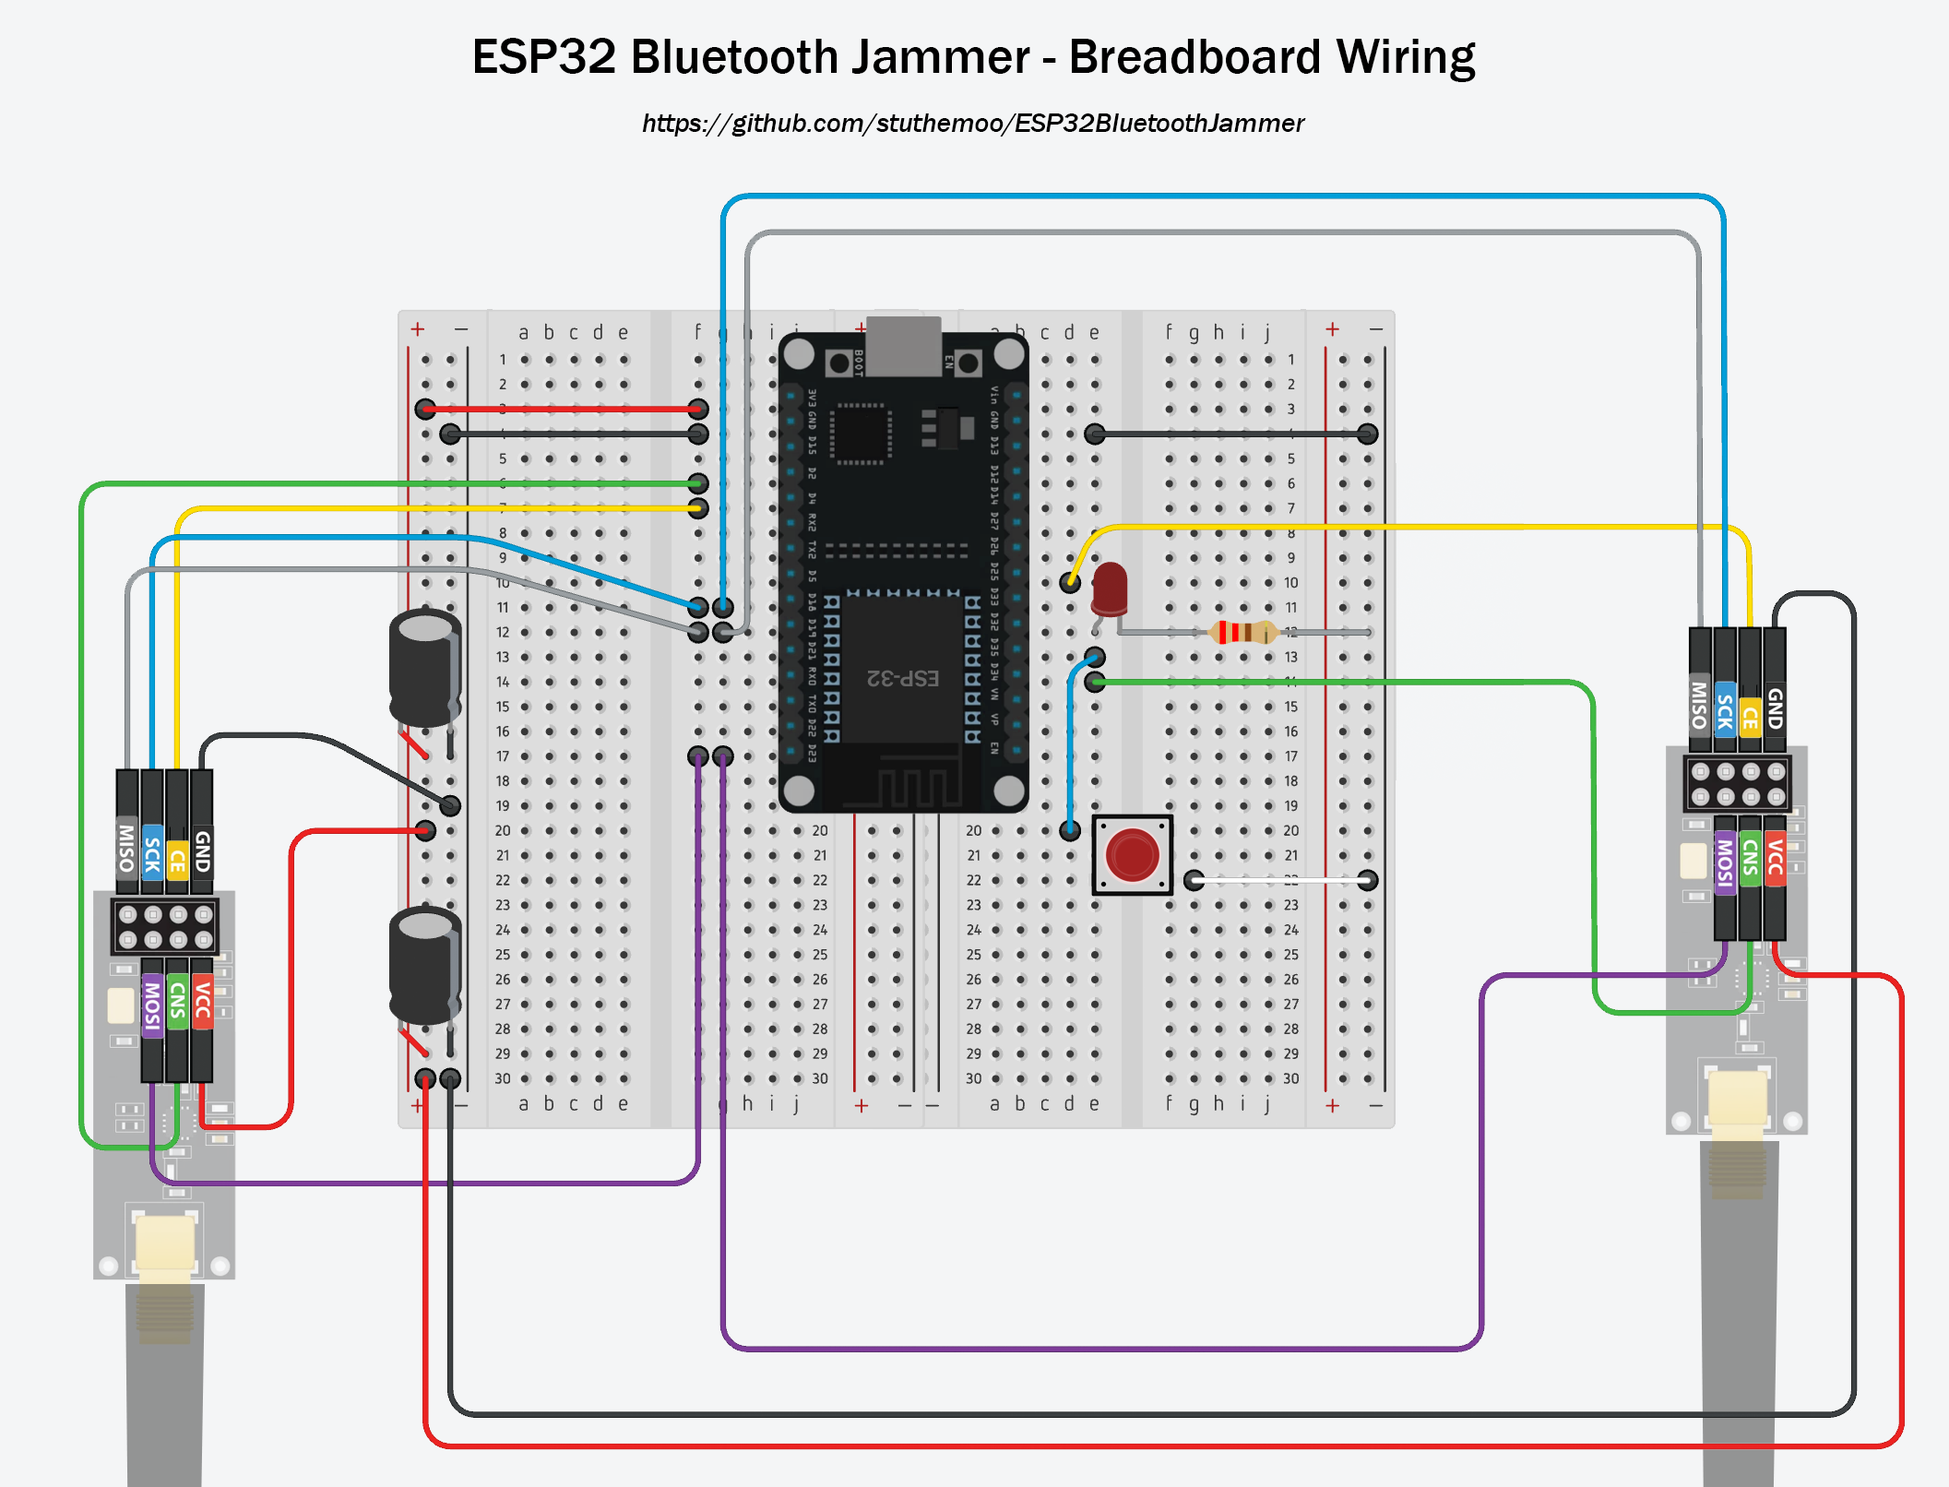
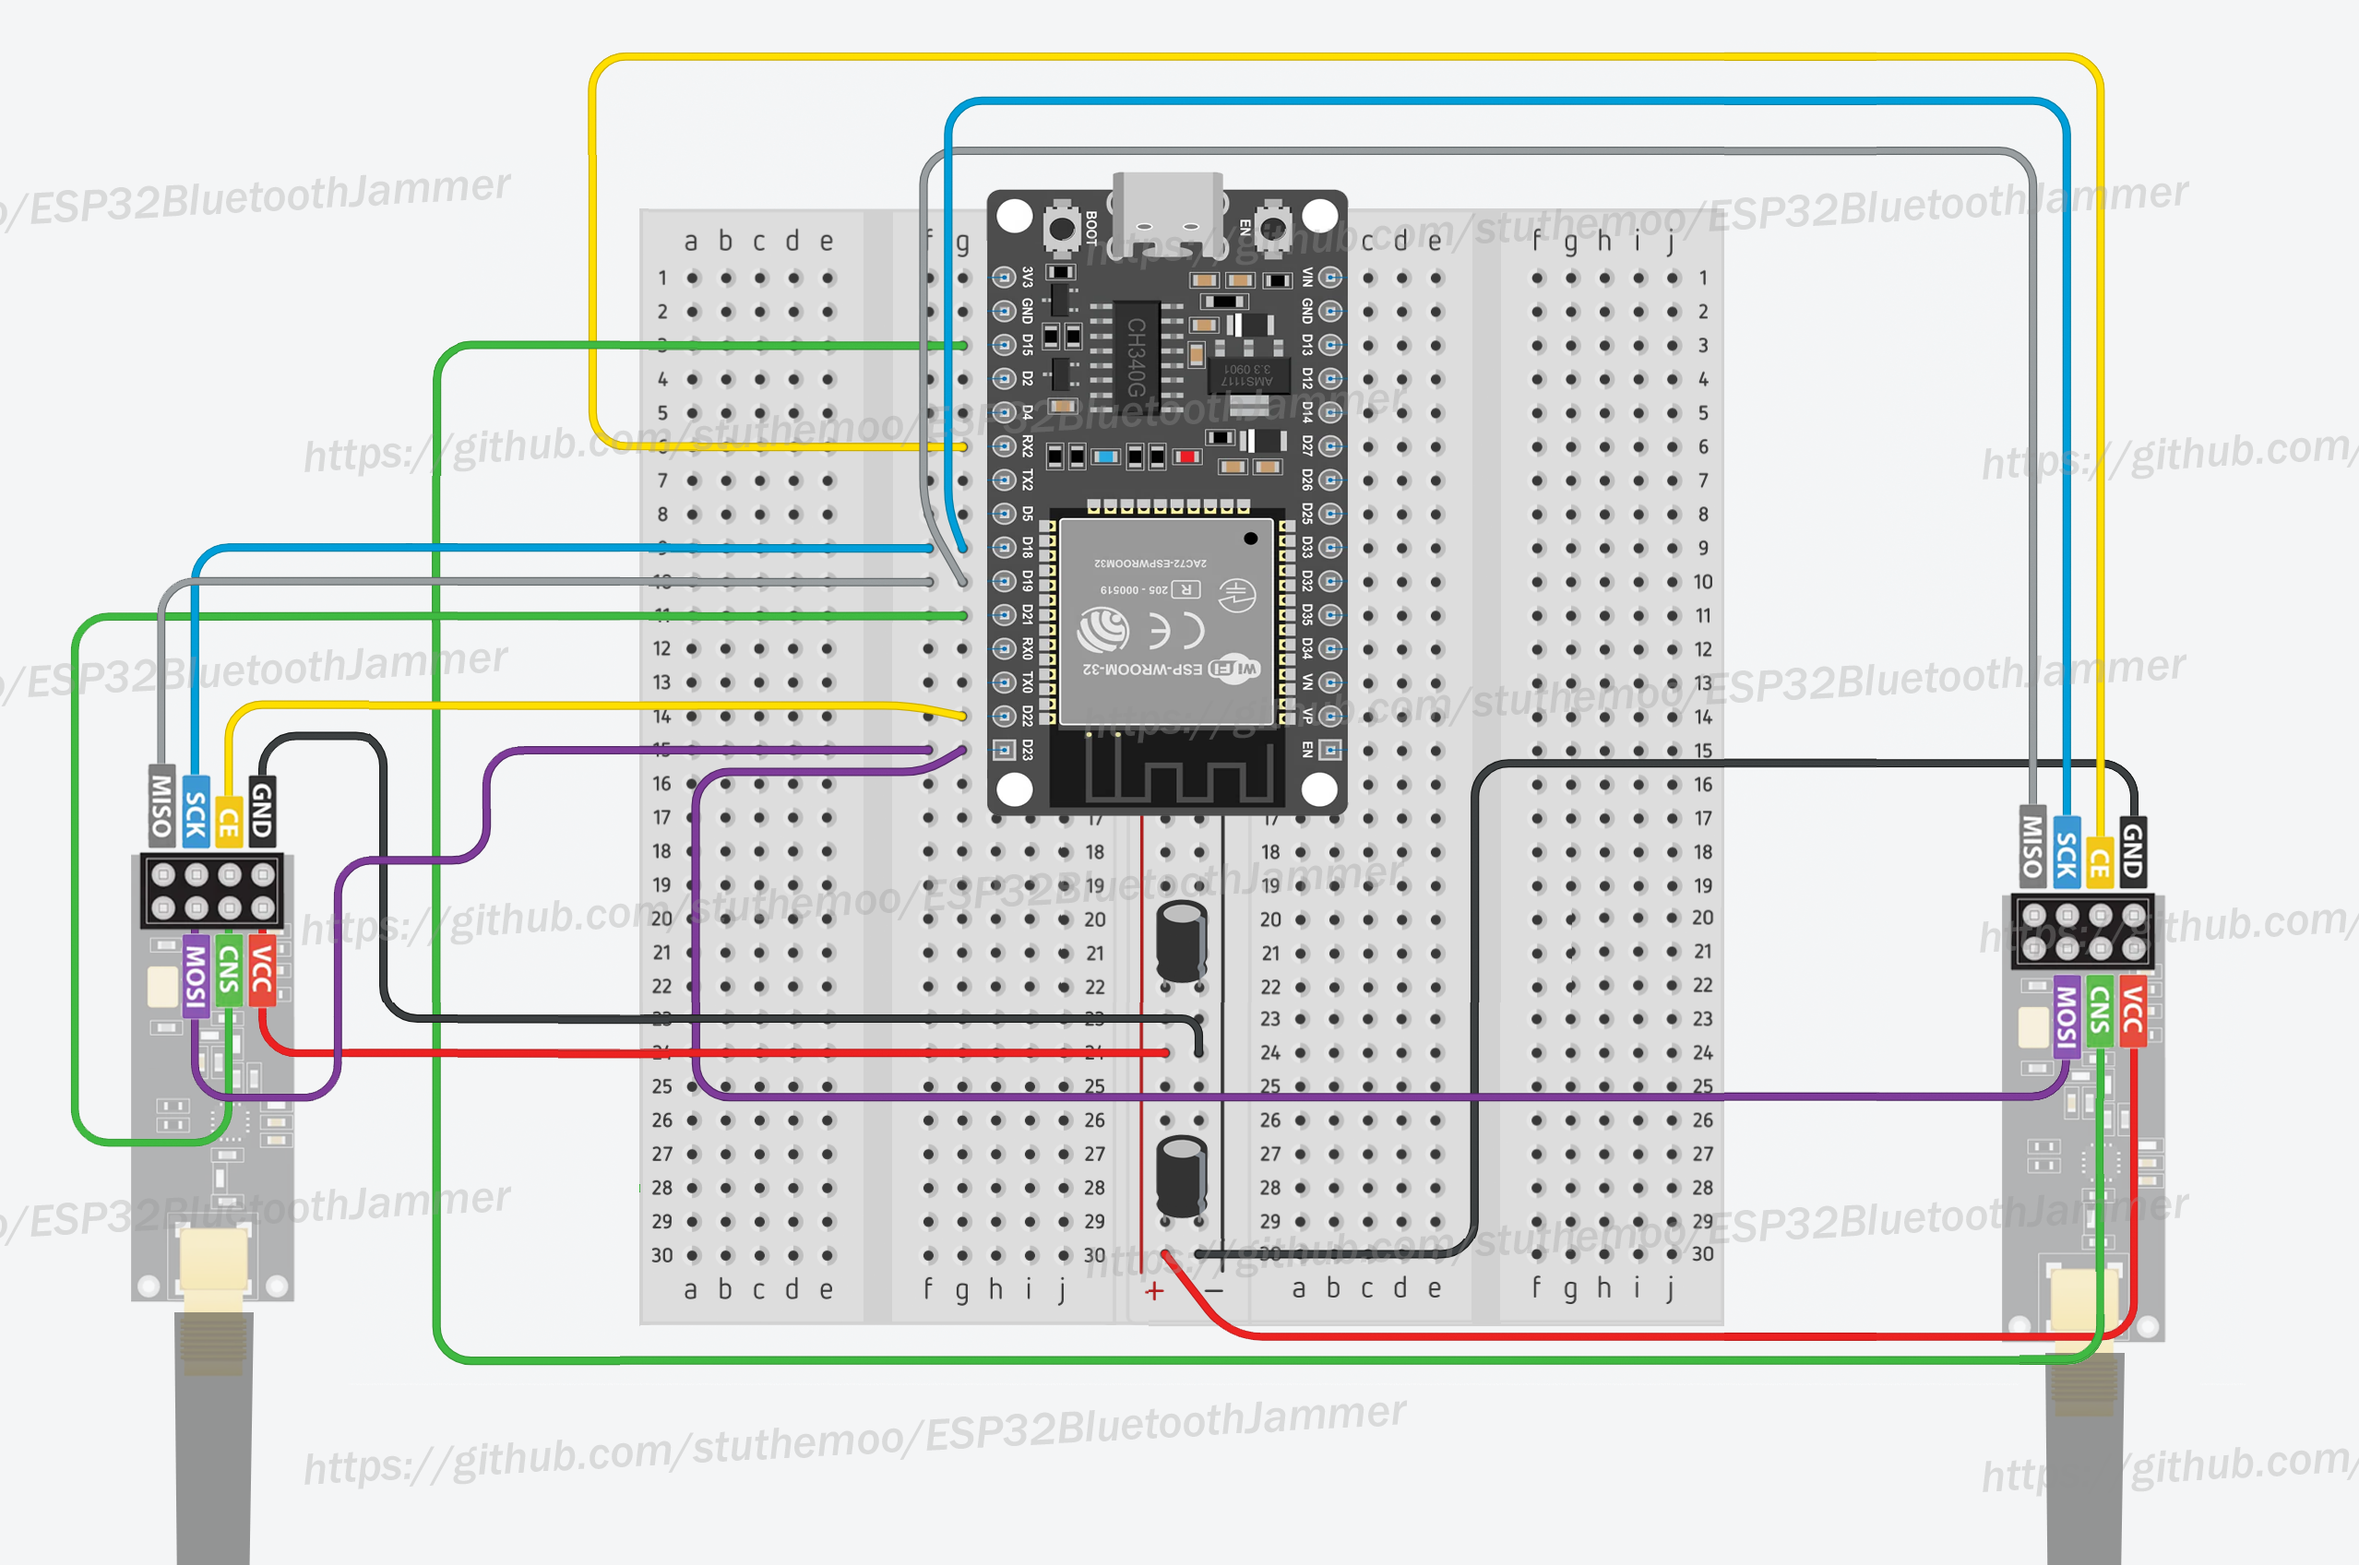
Add specific Bluetooth channels to use. Add serial monitor debugging command. Update wiring image. Update read me.

diff --git a/README.md b/README.md
@@ -1,38 +1,58 @@
 # ESP32 Bluetooth Signal Jammer
 
-Arduino code for a Bluetooth signal jamming device built using an ESP32 MCU and NRF24L01 radio transmitters.
+Build a Bluetooth signal jamming device using the Arduino code and schematics here.
 
-From the "[How to build a Bluetooth Jammer](https://www.youtube.com/@StuJohnsonNZ)" video tutorial on YouTube.
+This setup uses an ESP32 dev board for the MCU and 2x NRF24L01 radio transmitters for transmitting. It can easily be tweaked to interfere with anything that uses the 2.4GHz band (WiFi, RC toys, drones etc).
 
-### ⚠ LEGAL WARNING
+## ⚠ LEGAL WARNING
 
 This code repository is for educational purposes only! DO NOT use a signal jamming device as they can can interfere with public safety communications and emergency services. In many countries the use of signal jammers is prohibited by law and intentional interference with wireless signals can result in severe penalties.
 
+## Parts List
+
+Build your device on a breadboard or perfboard.
+
+All the parts needed are listed below with links to buy them from AliExpress or Amazon.
+
+#### Parts on AliExpress
+
+- [ESP32 Dev Board](https://s.click.aliexpress.com/e/_oBzks2E)
+- [2x NRF24L01+PA+LNA](https://s.click.aliexpress.com/e/_okUsZpp)
+- [Breadboard](https://s.click.aliexpress.com/e/_on6KzoP)
+- [Jumper Wires](https://s.click.aliexpress.com/e/_ooo7z5h)
+- [2x Capacitor (10µF – 47µF)](https://s.click.aliexpress.com/e/_olkWSDz)
+
+
+- [Power Bank](https://s.click.aliexpress.com/e/_oneC3BV) **or** [3.7v Battery & Charger](https://s.click.aliexpress.com/e/_oElYgVl)
+
+#### Parts on Amazon (affiliate links)
+
+- [ESP32 Dev Board](https://amzn.to/4j8IFjW)
+- [2x NRF24L01+PA+LNA](https://amzn.to/43nGRhg)
+- [Breadboard](https://amzn.to/4k4pFEF)
+- [Jumper Wires](https://amzn.to/45fErUf)
+- [2x Capacitor (10µF – 47µF)](https://amzn.to/4kvqo1v)
+
+
+- [Power Bank](https://amzn.to/43eFnqV) **or** [3.7v Battery](https://amzn.to/3SHqebj) + [Charger](https://amzn.to/4k1NNrt)
+
 ## Wiring Diagrams
 
-Here's the exact wiring for the breadboard version from the video tutorial.
-
-### Breadboard wiring:
+Follow the wiring below using the same pins and the code will work out of the box with no adjustments needed.
 
 ![Breadboard Wiring Diagram](https://github.com/stuthemoo/ESP32BluetoothJammer/raw/main/wiring-breadboard.png "Breadboard Wiring Diagram")
 
-## Usage
+## Uploading
 
 Follow the wiring diagram and upload this code to your device use the Arduino IDE with ESP32 support and RF24 library installed.
 
-1. [Download the Arduino IDE here](https://www.arduino.cc/en/software).
+1. [Download the Arduino IDE](https://www.arduino.cc/en/software).
 
-2. [Install Arduino-ESP32 support](https://docs.espressif.com/projects/arduino-esp32/en/latest/installing.html).
+2. Install Arduino-ESP32 support. [Full guide found here](https://docs.espressif.com/projects/arduino-esp32/en/latest/installing.html).
 
-3. Using the Arduino library manager install `RF24 (by TMRh20)`.
+3. Install `RF24 (by TMRh20)` from library manager.
 
-4. Open the `BluetoothJammer.imo` file. If your circuit does not have a button then change the variable on line 16 to false.
-
-```
-boolean hasButton = false;
-```
-
-5. Plugin your ESP32. Select your port/board and click upload.
+4. Open the `BluetoothJammer.imo` file, plugin your ESP32, select your port/board and click upload.
 
 ## Contributing
 
